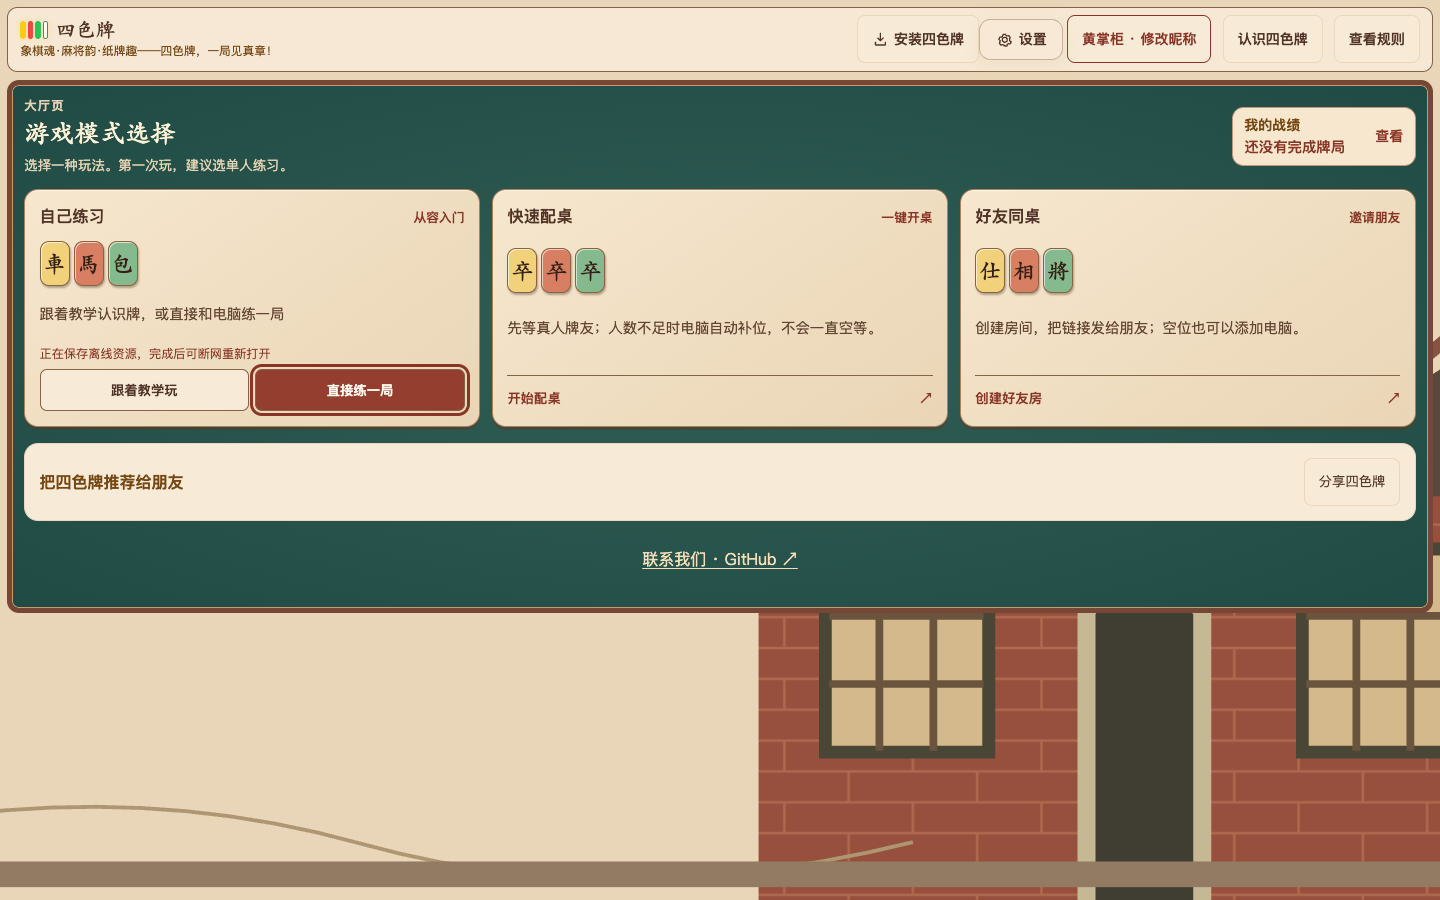
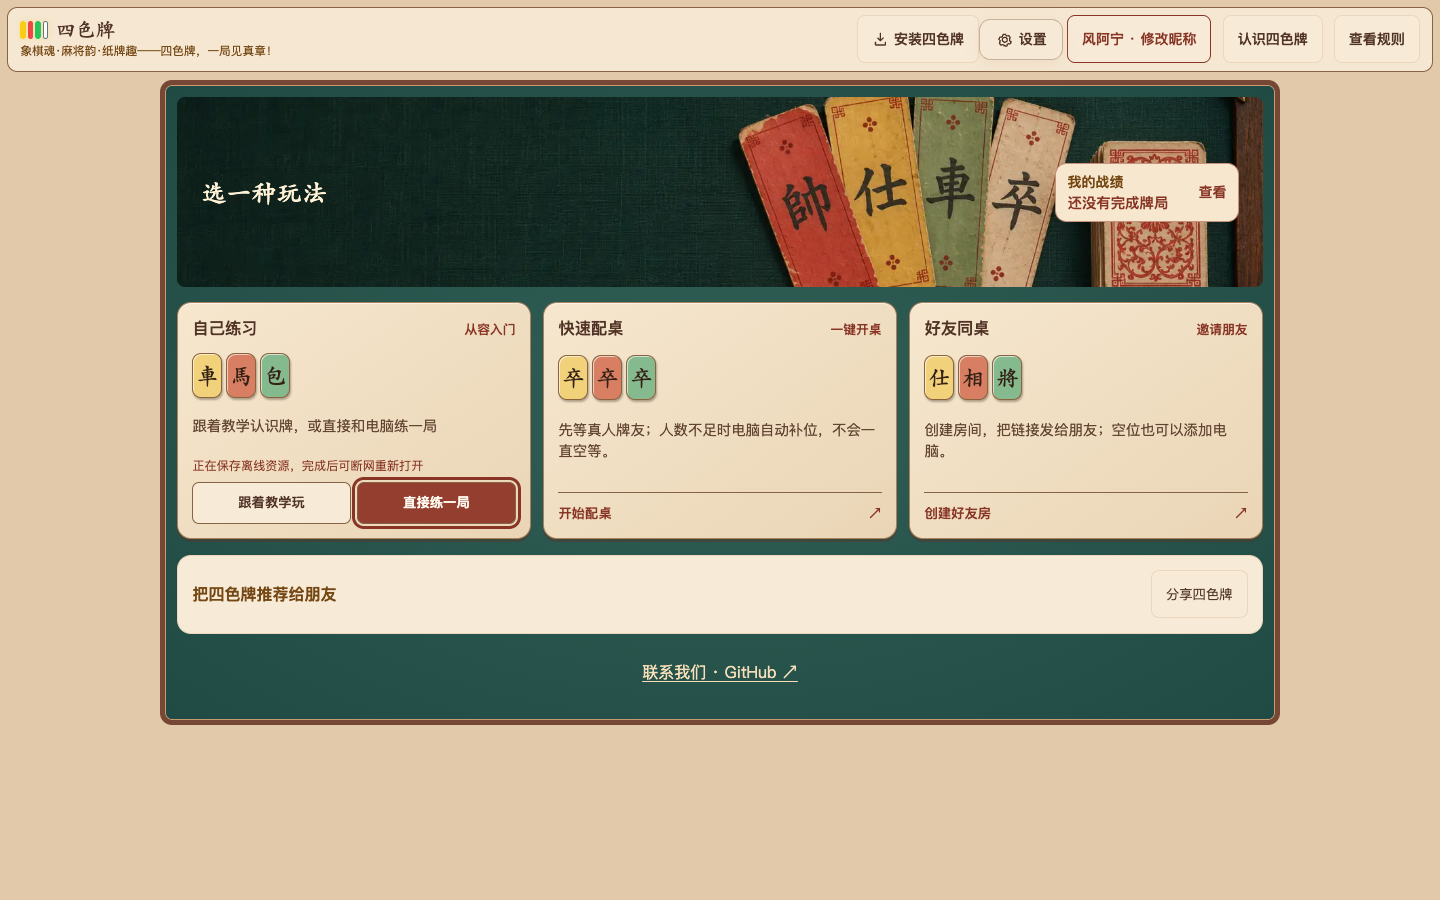
feat(lobby): bring players to a paper card table

diff --git a/tests/e2e/room-back-navigation.spec.ts b/tests/e2e/room-back-navigation.spec.ts
@@ -4,7 +4,7 @@ import { expect, test, type Page } from "@playwright/test";
 async function enterModeLobby(page: Page): Promise<void> {
   await page.goto("/?e2eDebug=1");
 
-  await expect(page.getByText("游戏模式选择")).toBeVisible();
+  await expect(page.getByText("选一种玩法")).toBeVisible();
 }
 
 async function browserBack(page: Page): Promise<void> {
@@ -62,7 +62,7 @@ test("browser back closes a game layer before offering a safe room exit", async 
   await browserBack(page);
   await expect(page.getByRole("heading", { name: "退出当前牌局？" })).toBeVisible();
   await page.getByTestId("confirm-exit").click();
-  await expect(page.getByText("游戏模式选择")).toBeVisible();
+  await expect(page.getByText("选一种玩法")).toBeVisible();
   await expectCleanRoomNavigationState(page);
 });
 
@@ -75,7 +75,7 @@ test("the visible waiting-room exit also releases browser history protection", a
   await page.getByTestId("leave-waiting-room").click();
   await expect(page.getByRole("heading", { name: "离开当前好友房？" })).toBeVisible();
   await page.getByTestId("confirm-waiting-leave").click();
-  await expect(page.getByText("游戏模式选择")).toBeVisible();
+  await expect(page.getByText("选一种玩法")).toBeVisible();
   await expectCleanRoomNavigationState(page);
 });
 
@@ -101,7 +101,7 @@ test("browser back asks before abandoning a recoverable saved-room connection", 
 
   await browserBack(page);
   await page.getByTestId("confirm-resume-abandon").click();
-  await expect(page.getByText("游戏模式选择")).toBeVisible();
+  await expect(page.getByText("选一种玩法")).toBeVisible();
   await expectCleanRoomNavigationState(page);
 });
 
@@ -117,7 +117,7 @@ test("browser back directly leaves a terminal saved-room recovery", async ({ pag
   await expect.poll(() => page.evaluate(() => Boolean(window.history.state?.__siseRoomGuard))).toBe(true);
 
   await browserBack(page);
-  await expect(page.getByText("游戏模式选择")).toBeVisible();
+  await expect(page.getByText("选一种玩法")).toBeVisible();
   await expect(page.getByTestId("resume-abandon-mask")).toHaveCount(0);
   await expectCleanRoomNavigationState(page);
 });

diff --git a/tests/e2e/reconnection.spec.ts b/tests/e2e/reconnection.spec.ts
@@ -59,7 +59,7 @@ test.describe("牌局断线恢复", () => {
     });
     await page.goto("/?e2eDebug=1");
 
-    await expect(page.getByText("游戏模式选择")).toBeVisible();
+    await expect(page.getByText("选一种玩法")).toBeVisible();
 
     const privateStateRequest = page.waitForRequest((request) => request.url().includes("/private-state"));
     await startLobbyAction(page);
@@ -301,7 +301,7 @@ test.describe("牌局断线恢复", () => {
     expect(matchmakingRequests).toBe(requestCountAfterClosure);
     await page.screenshot({ path: testInfo.outputPath("iphone-se-resume-screen.png") });
     await page.getByTestId("cancel-session-resume").click();
-    await expect(page.getByText("游戏模式选择")).toBeVisible();
+    await expect(page.getByText("选一种玩法")).toBeVisible();
     await expect(page.getByTestId("mode-practice_bots")).toBeFocused();
     expect(
       await page.evaluate(() => ({
@@ -331,7 +331,7 @@ test.describe("牌局断线恢复", () => {
     await page.screenshot({ path: testInfo.outputPath("expired-friend-invite-exit.png") });
     await returnButton.click();
 
-    await expect(page.getByText("游戏模式选择")).toBeVisible();
+    await expect(page.getByText("选一种玩法")).toBeVisible();
     await expect(page.getByTestId("mode-practice_bots")).toBeFocused();
     await expect(page.getByTestId("change-entry-name")).toContainText("过期邀请测试");
     expect(
@@ -424,11 +424,11 @@ test.describe("牌局断线恢复", () => {
     await revealTool(page, "game-exit");
     await page.getByTestId("game-exit").click();
     await page.getByTestId("confirm-exit").click();
-    await expect(page.getByText("游戏模式选择")).toBeVisible();
+    await expect(page.getByText("选一种玩法")).toBeVisible();
 
     releaseResponse();
     await page.waitForTimeout(500);
-    await expect(page.getByText("游戏模式选择")).toBeVisible();
+    await expect(page.getByText("选一种玩法")).toBeVisible();
     await expect(page.getByTestId("resume-session-screen")).toHaveCount(0);
     await expect(page.getByTestId("game-board")).toHaveCount(0);
   });

diff --git a/tests/e2e/mobile-responsive.spec.ts b/tests/e2e/mobile-responsive.spec.ts
@@ -31,7 +31,7 @@ async function readVisibleHandRange(locator: Locator): Promise<{ start: number; 
 async function enterLobby(page: Page, path = "/"): Promise<void> {
   await page.goto(path);
 
-  await expect(page.getByText("游戏模式选择")).toBeVisible();
+  await expect(page.getByText("选一种玩法")).toBeVisible();
 }
 
 async function finishOpeningIfNeeded(page: Page): Promise<void> {
@@ -451,7 +451,7 @@ test.describe("phone portrait landscape canvas", () => {
     await page.getByRole("button", { name: "关闭", exact: true }).click();
 
 
-    await expect(page.getByText("游戏模式选择")).toBeVisible();
+    await expect(page.getByText("选一种玩法")).toBeVisible();
 
     const overflow = await page.evaluate(() => ({
       bodyWidth: document.body.scrollWidth,
@@ -1461,9 +1461,9 @@ test.describe("compact landscape gameplay", () => {
     await revealTool(page, "game-exit");
     await page.getByTestId("game-exit").click();
     await page.getByTestId("confirm-exit").click();
-    await expect(page.getByText("游戏模式选择")).toBeVisible();
+    await expect(page.getByText("选一种玩法")).toBeVisible();
     await page.waitForTimeout(1_200);
-    await expect(page.getByText("游戏模式选择")).toBeVisible();
+    await expect(page.getByText("选一种玩法")).toBeVisible();
     await expect(page.getByTestId("game-board")).toHaveCount(0);
     const leaveState = await page.evaluate((roomId) => ({
       roomId: localStorage.getItem("four_room_id"),
@@ -1475,7 +1475,7 @@ test.describe("compact landscape gameplay", () => {
 
   test("keeps the self dealer card visible and reveals it before the static dealer mark appears", async ({ page }, testInfo) => {
     await openGameAs(page, "/?e2eDebug=1", "风棋童与老牌友");
-    await expect(page.getByText("游戏模式选择")).toBeVisible();
+    await expect(page.getByText("选一种玩法")).toBeVisible();
     await startLobbyAction(page);
 
     await finishOpeningIfNeeded(page);

diff --git a/tests/e2e/friend-room.spec.ts b/tests/e2e/friend-room.spec.ts
@@ -183,7 +183,7 @@ test("host invites a friend, configures bots, and starts a shared game", async (
 
   try {
     await openGameAs(host, "/", "同名牌友");
-    await expect(host.getByText("游戏模式选择")).toBeVisible();
+    await expect(host.getByText("选一种玩法")).toBeVisible();
     await host.getByTestId("mode-friends").click();
 
     await expect(host.getByTestId("seat-grid")).toBeVisible();
@@ -553,13 +553,13 @@ test("a host refresh keeps ownership while a confirmed exit transfers it immedia
 
     await host.getByTestId("leave-waiting-room").click();
     await host.getByTestId("confirm-waiting-leave").click();
-    await expect(host.getByText("游戏模式选择")).toBeVisible();
+    await expect(host.getByText("选一种玩法")).toBeVisible();
     await expect(guest.getByTestId("seat-1")).toContainText("房主 · 你");
     await expect(guest.getByTestId("fill-bots")).toHaveText("补齐 3 位电脑");
 
     await guest.getByTestId("leave-waiting-room").click();
     await guest.getByTestId("confirm-waiting-leave").click();
-    await expect(guest.getByText("游戏模式选择")).toBeVisible();
+    await expect(guest.getByText("选一种玩法")).toBeVisible();
   } finally {
     await guestContext.close();
     await hostContext.close();
@@ -743,7 +743,7 @@ test("legacy small waiting room keeps seats clear and allows a safe personal exi
   expect(departingRoomId).toBeTruthy();
   await leaveButton.click();
   await confirm.click();
-  await expect(page.getByText("游戏模式选择")).toBeVisible();
+  await expect(page.getByText("选一种玩法")).toBeVisible();
   await page.waitForTimeout(1_200);
   await expect(seatGrid).toHaveCount(0);
   const leaveState = await page.evaluate((roomId) => ({

diff --git a/tests/e2e/invite-entry-submit-lock.spec.ts b/tests/e2e/invite-entry-submit-lock.spec.ts
@@ -64,7 +64,7 @@ test("an expired invite leaves the retry loop for mode selection", async ({ page
   const returnButton = page.getByRole("button", { name: "返回玩法选择" });
   await expect(returnButton).toBeFocused();
   await returnButton.click();
-  await expect(page.getByText("游戏模式选择")).toBeVisible();
+  await expect(page.getByText("选一种玩法")).toBeVisible();
   await expect(page.getByTestId("change-entry-name")).toContainText("重试牌友");
   expect(new URL(page.url()).searchParams.get("roomId")).toBeNull();
   expect(await page.evaluate((roomId) => localStorage.getItem(`four_player_token:${roomId}`), missingRoomId)).toBeNull();
@@ -113,7 +113,7 @@ test("cancelling an in-flight invite clears its temporary room credential", asyn
   await expect(page.getByTestId("resume-session-screen")).toBeVisible();
   await page.getByTestId("cancel-session-resume").click();
 
-  await expect(page.getByText("游戏模式选择")).toBeVisible();
+  await expect(page.getByText("选一种玩法")).toBeVisible();
   await expect(page.getByTestId("mode-practice_bots")).toBeFocused();
   expect(new URL(page.url()).searchParams.get("roomId")).toBeNull();
   await expect.poll(() => page.evaluate((roomId) => ({
@@ -122,5 +122,5 @@ test("cancelling an in-flight invite clears its temporary room credential", asyn
   }), created.roomId!)).toEqual({ currentRoomId: null, pendingToken: null });
 
   await page.waitForTimeout(900);
-  await expect(page.getByText("游戏模式选择")).toBeVisible();
+  await expect(page.getByText("选一种玩法")).toBeVisible();
 });

diff --git a/tests/e2e/single-practice.spec.ts b/tests/e2e/single-practice.spec.ts
@@ -57,7 +57,7 @@ async function assertOpeningDealDoesNotRevealFullHand(page: Page): Promise<void>
 test("each practice round presents one bounded deal sequence", async ({ page }) => {
   test.setTimeout(120_000);
   await openGameAs(page, "/?e2eDebug=1", "只看一次发牌");
-  await expect(page.getByText("游戏模式选择")).toBeVisible();
+  await expect(page.getByText("选一种玩法")).toBeVisible();
 
   await page.evaluate(() => {
     const trackingWindow = window as Window & {
@@ -160,7 +160,7 @@ test("practice settlement stays readable and reachable on legacy phones", async 
 
 
 
-  await expect(page.getByText("游戏模式选择")).toBeVisible();
+  await expect(page.getByText("选一种玩法")).toBeVisible();
   await startLobbyAction(page);
 
   await expect(page.getByTestId("game-board")).toBeVisible();
@@ -373,7 +373,7 @@ test("practice settlement stays readable and reachable on legacy phones", async 
   await page.screenshot({ path: testInfo.outputPath("desktop-settlement.png") });
 
   await page.getByTestId("practice-return-to-modes").click();
-  await expect(page.getByText("游戏模式选择")).toBeVisible();
+  await expect(page.getByText("选一种玩法")).toBeVisible();
   await expect(page.getByTestId("mode-practice_bots")).toBeVisible();
   await expect(page.getByTestId("mode-quick_match")).toBeVisible();
   await expect(page.getByTestId("mode-friends")).toBeVisible();

diff --git a/client/src/components/LobbyPage.vue b/client/src/components/LobbyPage.vue
@@ -1955,6 +1955,12 @@ function trapLeaveFocus(event: KeyboardEvent): void {
 :global(html[data-skin="puxian-house"] .mode-selection .mode-card) { background: linear-gradient(145deg, #f6e7ce, #ead5b6); border: 1px solid #ac8059; box-shadow: inset 0 1px #fff9, 0 3px 0 #53352477; }
 :global(html[data-skin="puxian-house"] .mode-selection .guest-profile-summary) { background: #f6e7ce; }
 :global(html[data-skin="puxian-house"] .mode-selection .repository-link) { color: #f6dfb8; }
+:global(html[data-skin="puxian-house"] .layout:has(.lobby.mode-selection)) { background: #e1c9a9; }
+:global(html[data-skin="puxian-house"] .lobby.mode-selection) { width: min(100%, 1120px); margin-inline: auto; }
+.mode-selection .lobby-kicker, .mode-selection .lobby-rule-tip { display: none; }
+@media (min-width: 721px) and (min-height: 451px) {
+  :global(html[data-skin="puxian-house"] .mode-selection .lobby-head) { min-height: 190px; padding: 1.25rem 1.5rem; border-radius: 8px; background: #123b33 url('/skins/first-table-hero.webp') center / cover no-repeat; }
+}
 @media (max-width: 720px), (max-height: 380px) {
   .mode-selection .mode-grid { grid-template-columns: repeat(3, minmax(0, 1fr)); gap: .35rem; }
   .mode-selection .mode-card { min-height: 0; gap: .15rem; }

diff --git a/tests/e2e/mode-start-pending.spec.ts b/tests/e2e/mode-start-pending.spec.ts
@@ -5,7 +5,7 @@ test.use({ viewport: { width: 568, height: 320 }, hasTouch: true, isMobile: true
 
 async function enterModeLobby(page: import("@playwright/test").Page): Promise<void> {
   await openGameAs(page, "/", "慢网牌友");
-  await expect(page.getByText("游戏模式选择")).toBeVisible();
+  await expect(page.getByText("选一种玩法")).toBeVisible();
 }
 
 for (const scenario of [
@@ -90,9 +90,9 @@ test("quick match uses joining language and can return to mode selection", async
   await expect(progress.getByTestId("cancel-session-resume")).toHaveText("取消，返回玩法选择");
 
   await progress.getByTestId("cancel-session-resume").click();
-  await expect(page.getByText("游戏模式选择")).toBeVisible();
+  await expect(page.getByText("选一种玩法")).toBeVisible();
   await expect(page.getByTestId("mode-quick_match")).toBeEnabled();
   await expect(page.getByTestId("mode-quick_match")).toContainText("开始配桌");
   await page.waitForTimeout(900);
-  await expect(page.getByText("游戏模式选择")).toBeVisible();
+  await expect(page.getByText("选一种玩法")).toBeVisible();
 });

diff --git a/tests/e2e/storage-resilience.spec.ts b/tests/e2e/storage-resilience.spec.ts
@@ -34,7 +34,7 @@ test("storage-restricted browsers can still enter a practice game", async ({ bro
     await page.screenshot({ path: testInfo.outputPath("storage-limited-nickname-568x320.png") });
     await nickname.fill("隐私浏览器牌友");
     await page.getByTestId("login-submit").click();
-    await expect(page.getByText("游戏模式选择")).toBeVisible();
+    await expect(page.getByText("选一种玩法")).toBeVisible();
     await expect(page.locator(".mode-card")).toHaveCount(3);
     await expect(page.getByTestId("guest-profile-summary")).toHaveCount(0);
 
@@ -44,7 +44,7 @@ test("storage-restricted browsers can still enter a practice game", async ({ bro
     await revealTool(page, "game-exit");
     await page.getByTestId("game-exit").click();
     await page.getByTestId("confirm-exit").click();
-    await expect(page.getByText("游戏模式选择")).toBeVisible();
+    await expect(page.getByText("选一种玩法")).toBeVisible();
     await expect(page.getByTestId("guest-profile-summary")).toHaveCount(0);
     expect(pageErrors).toEqual([]);
   } finally {

diff --git a/tests/e2e/quick-matchmaking.spec.ts b/tests/e2e/quick-matchmaking.spec.ts
@@ -3,7 +3,7 @@ import { expect, test, type Page } from "@playwright/test";
 
 async function enterModeLobby(page: Page, name: string, path = "/"): Promise<void> {
   await openGameAs(page, path, name);
-  await expect(page.getByText("游戏模式选择")).toBeVisible();
+  await expect(page.getByText("选一种玩法")).toBeVisible();
 }
 
 async function applyDebugScenario(page: Page, scenario: string): Promise<void> {
@@ -150,7 +150,7 @@ test("leaving quick-match waiting clears its local room identity", async ({ page
   await page.getByTestId("leave-waiting-room").click();
   await expect(page.getByRole("dialog", { name: "离开快速配桌？" })).toContainText("不会把其他牌友一起带走");
   await page.getByTestId("confirm-waiting-leave").click();
-  await expect(page.getByText("游戏模式选择")).toBeVisible();
+  await expect(page.getByText("选一种玩法")).toBeVisible();
   const stored = await page.evaluate((departedRoomId) => ({
     roomId: localStorage.getItem("four_room_id"),
     token: localStorage.getItem(`four_player_token:${departedRoomId}`),

diff --git a/tests/e2e/room-dissolve.spec.ts b/tests/e2e/room-dissolve.spec.ts
@@ -30,8 +30,8 @@ test("a host can dissolve a waiting friend table for everyone", async ({ browser
 
     await dissolve.click();
     await host.getByTestId("confirm-dissolve-room").click();
-    await expect(host.getByText("游戏模式选择")).toBeVisible();
-    await expect(guest.getByText("游戏模式选择")).toBeVisible();
+    await expect(host.getByText("选一种玩法")).toBeVisible();
+    await expect(guest.getByText("选一种玩法")).toBeVisible();
     await expect(guest.getByText("房主已解散本桌，大家已返回模式选择。")).toBeVisible();
 
     for (const page of [host, guest]) {
@@ -75,5 +75,5 @@ test("the host can dissolve after the whole table returns from settlement", asyn
   await expect(page.getByTestId("dissolve-room")).toBeVisible();
   await page.getByTestId("dissolve-room").click();
   await page.getByTestId("confirm-dissolve-room").click();
-  await expect(page.getByText("游戏模式选择")).toBeVisible();
+  await expect(page.getByText("选一种玩法")).toBeVisible();
 });

diff --git a/client/src/composables/useLobbyPresentation.ts b/client/src/composables/useLobbyPresentation.ts
@@ -93,7 +93,7 @@ export function useLobbyPresentation({ state, players, connected, mySeatId, matc
   );
   const lobbyTitle = computed(() => {
     if (!isWaiting.value) {
-      return "游戏模式选择";
+      return "选一种玩法";
     }
     if (state.value?.roomMode === "match") {
       return "正在快速配桌";
@@ -122,7 +122,7 @@ export function useLobbyPresentation({ state, players, connected, mySeatId, matc
   });
   const lobbySubtitle = computed(() => {
     if (!isWaiting.value) {
-      return "选择一种玩法。第一次玩，建议选单人练习。";
+      return "";
     }
     if (state.value?.roomMode === "match") {
       const humanCount = players.value.filter((player) => !player.isConfiguredBot).length;
